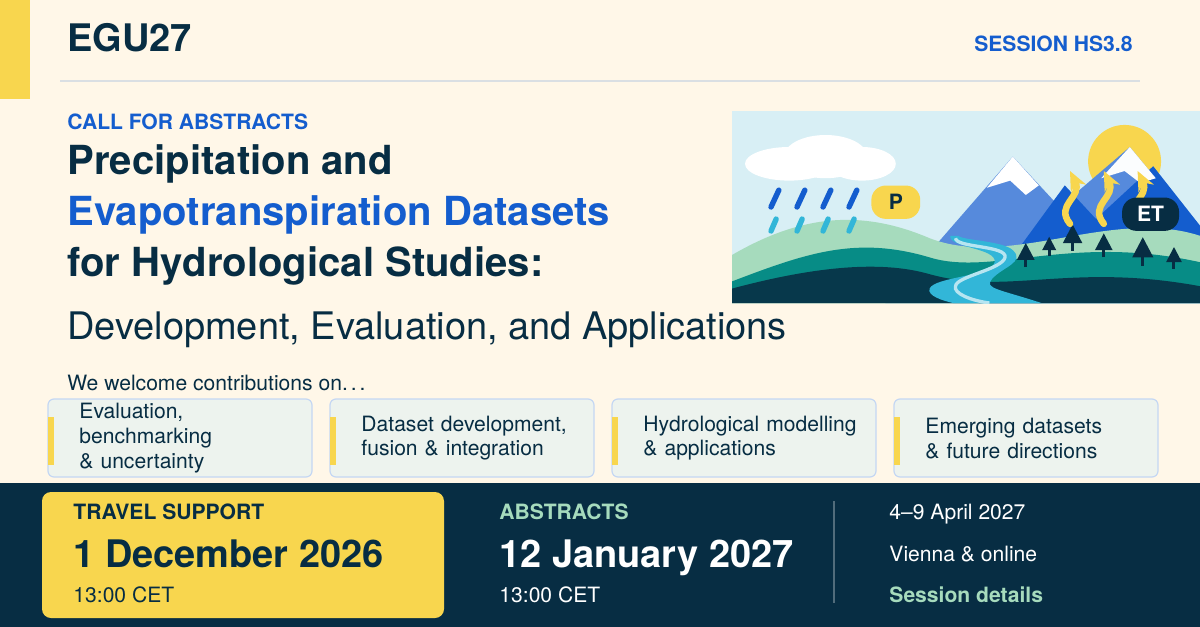
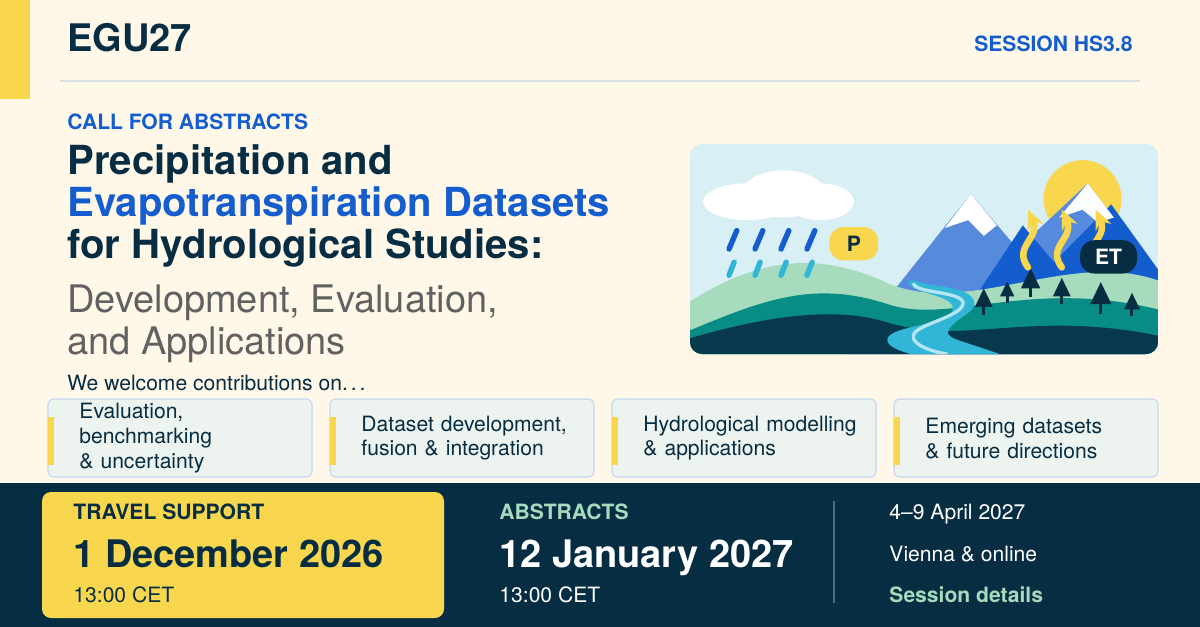
Balance LinkedIn title and illustration as aligned columns
Keep the complete title in the left column, using a two-line gray continuation, and align the inset rounded illustration to the title block. Preserve all four topic boxes. Inspected the final render and passed packaging validation.

AI assistance: GPT-6 (Codex).

Changed region(s): [[0.0308, 0.1515, 1.0, 0.5758]]

diff --git a/site/index.html b/site/index.html
@@ -135,7 +135,7 @@
               <div class="download-card-bottom"><div><h3>Instagram</h3><p>Portrait · 1080 × 1350</p></div><div class="download-links"><a href="downloads/egu27-hs38-instagram.png" download>PNG <span aria-hidden="true">↓</span></a><a href="downloads/egu27-hs38-instagram.pdf" download>PDF <span aria-hidden="true">↓</span></a></div></div>
             </article>
             <article class="download-card">
-              <a class="asset-preview landscape-preview" href="downloads/egu27-hs38-linkedin.png" aria-label="View the LinkedIn graphic"><img src="downloads/egu27-hs38-linkedin.png?v=0372e5239ac8" width="1200" height="627" loading="lazy" alt="Landscape social graphic for EGU27 session HS3.8 on precipitation and evapotranspiration datasets for hydrological studies. Submit abstracts by 12 January 2027, 13:00 CET."></a>
+              <a class="asset-preview landscape-preview" href="downloads/egu27-hs38-linkedin.png" aria-label="View the LinkedIn graphic"><img src="downloads/egu27-hs38-linkedin.png?v=730e17d1a94e" width="1200" height="627" loading="lazy" alt="Landscape social graphic for EGU27 session HS3.8 on precipitation and evapotranspiration datasets for hydrological studies. Submit abstracts by 12 January 2027, 13:00 CET."></a>
               <div class="download-card-bottom"><div><h3>LinkedIn</h3><p>Landscape · 1200 × 627</p></div><div class="download-links"><a href="downloads/egu27-hs38-linkedin.png" download>PNG <span aria-hidden="true">↓</span></a><a href="downloads/egu27-hs38-linkedin.pdf" download>PDF <span aria-hidden="true">↓</span></a></div></div>
             </article>
           </div>

diff --git a/docs/history.md b/docs/history.md
@@ -56,3 +56,5 @@
 - Softened the Instagram “Development, Evaluation, and Applications” line to dark gray while preserving its title size and bold weight.
 
 - Reduced LinkedIn main-title size from 20 to 19 pt, reflowed it into three lines and narrowed the illustration from 91 to 78 mm. Preserved the four topic boxes and footer.
+
+- Balanced LinkedIn’s title and illustration as aligned columns: kept the complete title on the left, split its gray continuation across two lines, and inset the rounded illustration to align with the title block and topic-strip right edge. Preserved the four topic boxes.
